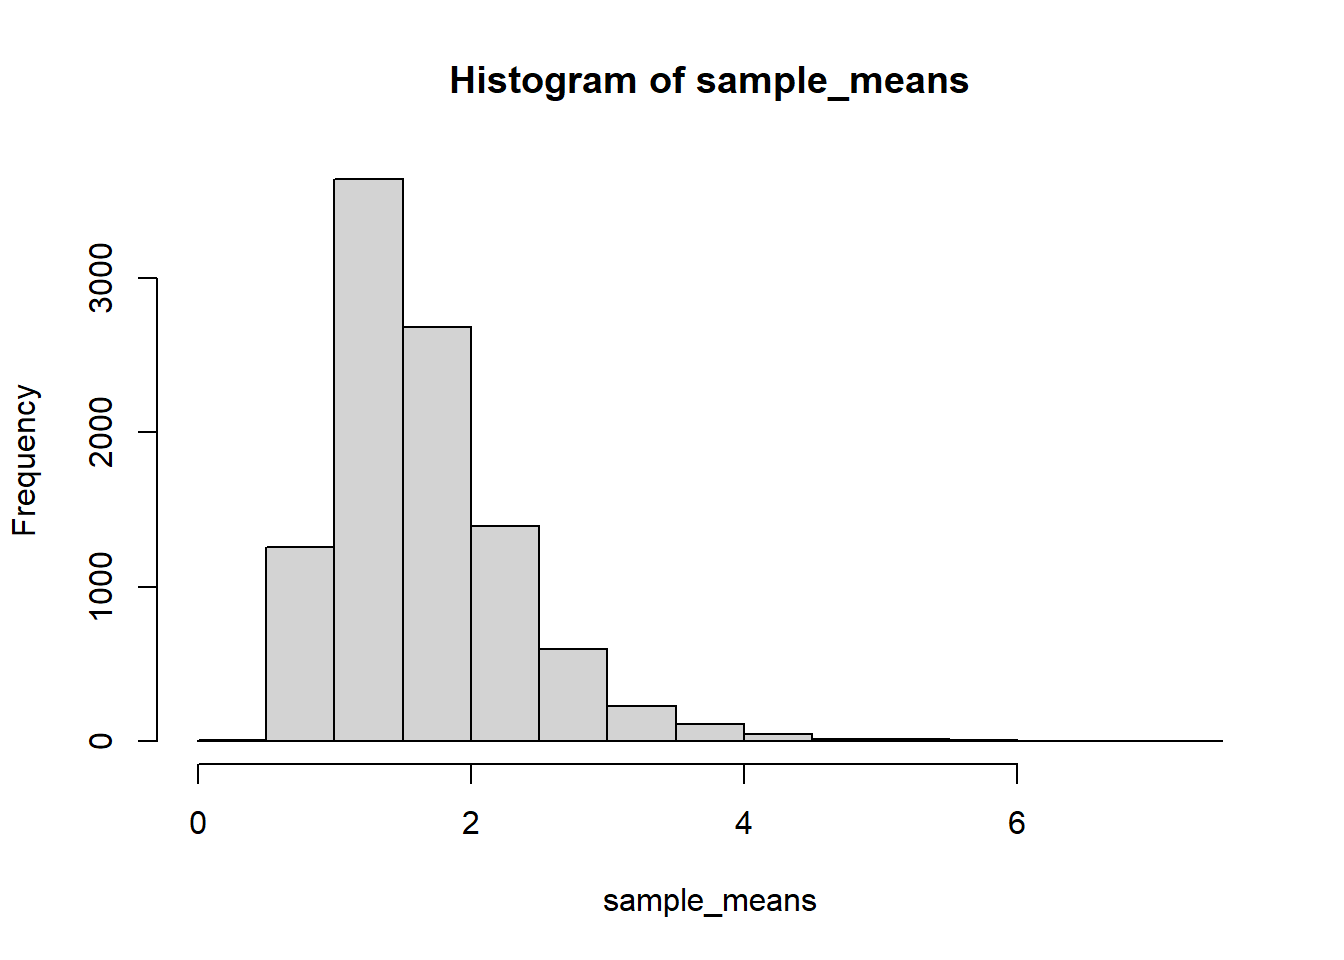
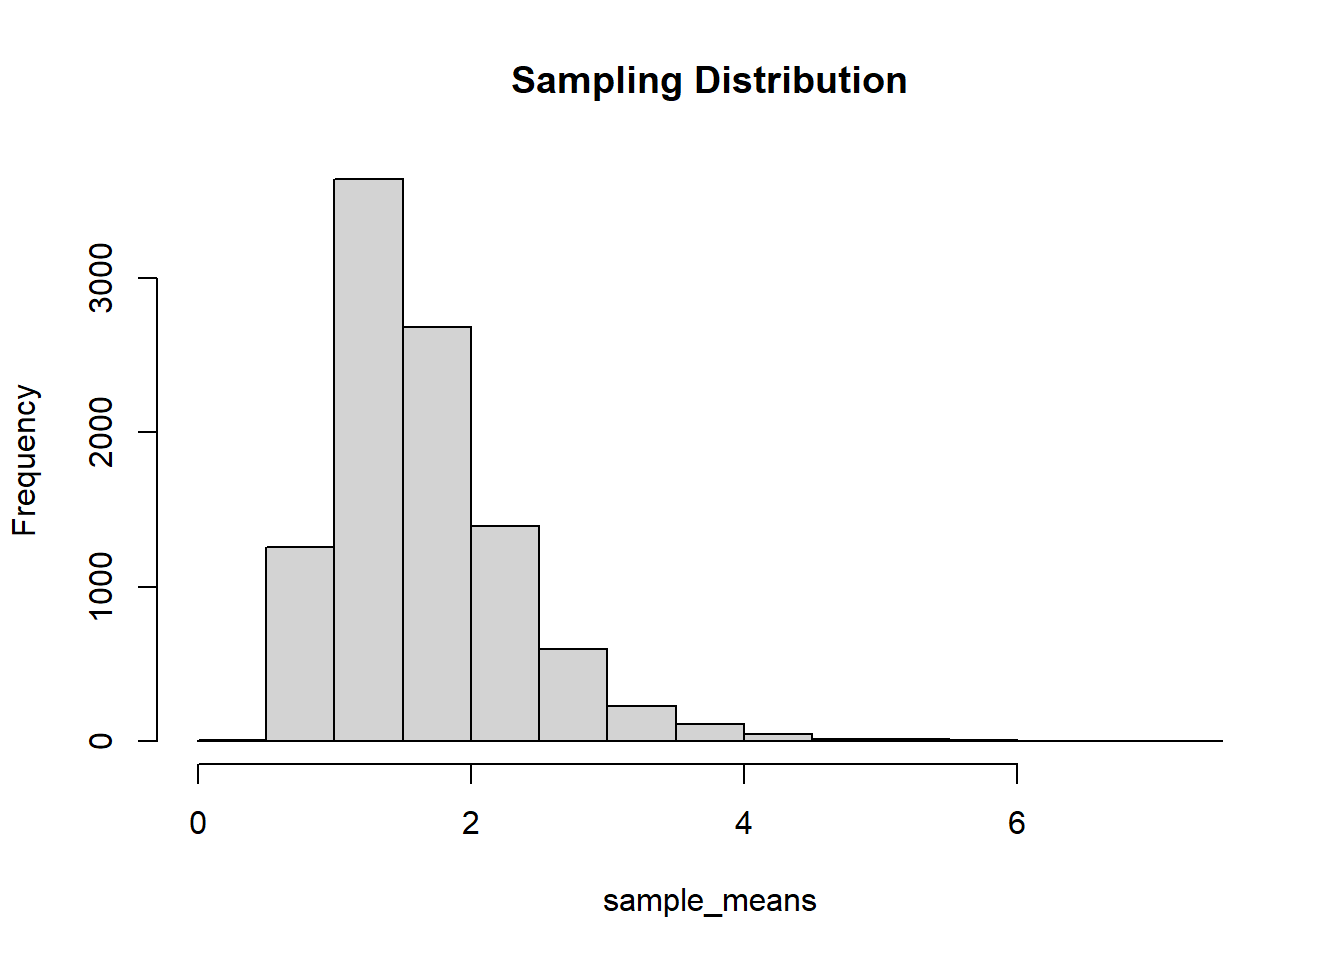
Minor updates to function
Will eventually swap to ggplots

Changed region(s): [[0.3125, 0.0625, 0.7188, 0.125]]

diff --git a/Simulation Analysis.html b/Simulation Analysis.html
@@ -107,26 +107,25 @@ pre > code.sourceCode > span > a:first-child::before { text-decoration: underlin
 <h2 class="anchored" data-anchor-id="set-up">Set Up</h2>
 <div class="cell">
 <div class="sourceCode cell-code" id="cb1"><pre class="sourceCode r code-with-copy"><code class="sourceCode r"><span id="cb1-1"><a href="#cb1-1" aria-hidden="true" tabindex="-1"></a><span class="fu">library</span>(ggplot2)</span>
-<span id="cb1-2"><a href="#cb1-2" aria-hidden="true" tabindex="-1"></a><span class="fu">library</span>(moments)</span>
-<span id="cb1-3"><a href="#cb1-3" aria-hidden="true" tabindex="-1"></a><span class="fu">set.seed</span>(<span class="dv">2626</span>)</span>
-<span id="cb1-4"><a href="#cb1-4" aria-hidden="true" tabindex="-1"></a><span class="co"># </span><span class="al">TODO</span><span class="co">: change back to 100k5</span></span>
-<span id="cb1-5"><a href="#cb1-5" aria-hidden="true" tabindex="-1"></a>r <span class="ot">&lt;-</span> <span class="dv">10000</span> <span class="co"># number of repetitions</span></span>
-<span id="cb1-6"><a href="#cb1-6" aria-hidden="true" tabindex="-1"></a><span class="co"># sample_sizes &lt;- c(5, 10, 20, 30, 40, 100, 200, 300, 400, 2000, 3000, 4000)</span></span>
-<span id="cb1-7"><a href="#cb1-7" aria-hidden="true" tabindex="-1"></a>sample_sizes <span class="ot">&lt;-</span> <span class="fu">c</span>(<span class="dv">5</span>, <span class="dv">10</span>, <span class="dv">20</span>)</span></code><button title="Copy to Clipboard" class="code-copy-button"><i class="bi"></i></button></pre></div>
+<span id="cb1-2"><a href="#cb1-2" aria-hidden="true" tabindex="-1"></a><span class="fu">set.seed</span>(<span class="dv">2626</span>)</span>
+<span id="cb1-3"><a href="#cb1-3" aria-hidden="true" tabindex="-1"></a><span class="co"># </span><span class="al">TODO</span><span class="co">: change back to 100k</span></span>
+<span id="cb1-4"><a href="#cb1-4" aria-hidden="true" tabindex="-1"></a>r <span class="ot">&lt;-</span> <span class="dv">10000</span> <span class="co"># number of repetitions</span></span>
+<span id="cb1-5"><a href="#cb1-5" aria-hidden="true" tabindex="-1"></a><span class="co"># sample_sizes &lt;- c(5, 10, 20, 30, 40, 100, 200, 300, 400, 1000, 2000, 3000, 4000)</span></span>
+<span id="cb1-6"><a href="#cb1-6" aria-hidden="true" tabindex="-1"></a>sample_sizes <span class="ot">&lt;-</span> <span class="fu">c</span>(<span class="dv">5</span>, <span class="dv">10</span>, <span class="dv">20</span>)</span></code><button title="Copy to Clipboard" class="code-copy-button"><i class="bi"></i></button></pre></div>
 </div>
 <p>We are opting to create 100,000 samples (repetitions) to create the sampling distribution so as to mitigate any concerns of random variability influencing our conclusions.</p>
 <div class="cell">
 <div class="sourceCode cell-code" id="cb2"><pre class="sourceCode r code-with-copy"><code class="sourceCode r"><span id="cb2-1"><a href="#cb2-1" aria-hidden="true" tabindex="-1"></a>analysis <span class="ot">&lt;-</span> <span class="cf">function</span>(f, distro, n, ...) {</span>
-<span id="cb2-2"><a href="#cb2-2" aria-hidden="true" tabindex="-1"></a>  <span class="fu">hist</span>(<span class="fu">distro</span>(n))</span>
+<span id="cb2-2"><a href="#cb2-2" aria-hidden="true" tabindex="-1"></a>  <span class="fu">hist</span>(<span class="fu">distro</span>(n), <span class="at">main =</span> <span class="fu">paste</span>(<span class="st">"Example Sample Distribution, n = "</span>,n))</span>
 <span id="cb2-3"><a href="#cb2-3" aria-hidden="true" tabindex="-1"></a>  sample_means <span class="ot">&lt;-</span> <span class="fu">replicate</span>(r, <span class="fu">f</span>(<span class="fu">distro</span>(n, ...)))</span>
-<span id="cb2-4"><a href="#cb2-4" aria-hidden="true" tabindex="-1"></a>  <span class="fu">hist</span>(sample_means)</span>
+<span id="cb2-4"><a href="#cb2-4" aria-hidden="true" tabindex="-1"></a>  <span class="fu">hist</span>(sample_means, <span class="at">main =</span> <span class="st">"Sampling Distribution"</span>)</span>
 <span id="cb2-5"><a href="#cb2-5" aria-hidden="true" tabindex="-1"></a>  <span class="fu">qqnorm</span>(sample_means)</span>
 <span id="cb2-6"><a href="#cb2-6" aria-hidden="true" tabindex="-1"></a>  <span class="fu">qqline</span>(sample_means)</span>
 <span id="cb2-7"><a href="#cb2-7" aria-hidden="true" tabindex="-1"></a></span>
-<span id="cb2-8"><a href="#cb2-8" aria-hidden="true" tabindex="-1"></a>  <span class="fu">skewness</span>(sample_means)</span>
+<span id="cb2-8"><a href="#cb2-8" aria-hidden="true" tabindex="-1"></a>  moments<span class="sc">::</span><span class="fu">skewness</span>(sample_means)</span>
 <span id="cb2-9"><a href="#cb2-9" aria-hidden="true" tabindex="-1"></a>}</span>
 <span id="cb2-10"><a href="#cb2-10" aria-hidden="true" tabindex="-1"></a></span>
-<span id="cb2-11"><a href="#cb2-11" aria-hidden="true" tabindex="-1"></a><span class="fu">lapply</span>(sample_sizes, analysis, <span class="at">distro =</span> rlnorm, <span class="at">f =</span> mean, <span class="at">mu =</span> <span class="dv">0</span>, <span class="at">sigma =</span> <span class="dv">1</span>)</span></code><button title="Copy to Clipboard" class="code-copy-button"><i class="bi"></i></button></pre></div>
+<span id="cb2-11"><a href="#cb2-11" aria-hidden="true" tabindex="-1"></a><span class="fu">unlist</span>(<span class="fu">lapply</span>(sample_sizes, analysis, <span class="at">f =</span> mean, <span class="at">distro =</span> rlnorm, <span class="at">mu =</span> <span class="dv">0</span>, <span class="at">sigma =</span> <span class="dv">1</span>))</span></code><button title="Copy to Clipboard" class="code-copy-button"><i class="bi"></i></button></pre></div>
 <div class="cell-output-display">
 <div>
 <figure class="figure">
@@ -191,16 +190,9 @@ pre > code.sourceCode > span > a:first-child::before { text-decoration: underlin
 </div>
 </div>
 <div class="cell-output cell-output-stdout">
-<pre><code>[[1]]
-[1] 2.885709
-
-[[2]]
-[1] 1.676432
-
-[[3]]
-[1] 1.254247</code></pre>
+<pre><code>[1] 2.885709 1.676432 1.254247</code></pre>
 </div>
-<div class="sourceCode cell-code" id="cb4"><pre class="sourceCode r code-with-copy"><code class="sourceCode r"><span id="cb4-1"><a href="#cb4-1" aria-hidden="true" tabindex="-1"></a><span class="fu">lapply</span>(sample_sizes, analysis, <span class="at">distro =</span> rlnorm, <span class="at">f =</span> mean, <span class="at">mu =</span> <span class="dv">0</span>, <span class="at">sigma =</span> <span class="fl">0.5</span>)</span></code><button title="Copy to Clipboard" class="code-copy-button"><i class="bi"></i></button></pre></div>
+<div class="sourceCode cell-code" id="cb4"><pre class="sourceCode r code-with-copy"><code class="sourceCode r"><span id="cb4-1"><a href="#cb4-1" aria-hidden="true" tabindex="-1"></a><span class="fu">unlist</span>(<span class="fu">lapply</span>(sample_sizes, analysis, <span class="at">f =</span> mean, <span class="at">distro =</span> rlnorm, <span class="at">mu =</span> <span class="dv">0</span>, <span class="at">sigma =</span> <span class="fl">0.5</span>))</span></code><button title="Copy to Clipboard" class="code-copy-button"><i class="bi"></i></button></pre></div>
 <div class="cell-output-display">
 <div>
 <figure class="figure">
@@ -265,24 +257,75 @@ pre > code.sourceCode > span > a:first-child::before { text-decoration: underlin
 </div>
 </div>
 <div class="cell-output cell-output-stdout">
-<pre><code>[[1]]
-[1] 2.239968
-
-[[2]]
-[1] 1.572076
-
-[[3]]
-[1] 1.196062</code></pre>
+<pre><code>[1] 2.239968 1.572076 1.196062</code></pre>
+</div>
+<div class="sourceCode cell-code" id="cb6"><pre class="sourceCode r code-with-copy"><code class="sourceCode r"><span id="cb6-1"><a href="#cb6-1" aria-hidden="true" tabindex="-1"></a><span class="fu">unlist</span>(<span class="fu">lapply</span>(sample_sizes, analysis, <span class="at">distro =</span> rnorm, <span class="at">f =</span> mean))</span></code><button title="Copy to Clipboard" class="code-copy-button"><i class="bi"></i></button></pre></div>
+<div class="cell-output-display">
+<div>
+<figure class="figure">
+<p><img src="Simulation-Analysis_files/figure-html/unnamed-chunk-2-19.png" class="img-fluid figure-img" width="672"></p>
+</figure>
 </div>
 </div>
-<div class="cell">
-<div class="sourceCode cell-code" id="cb6"><pre class="sourceCode r code-with-copy"><code class="sourceCode r"><span id="cb6-1"><a href="#cb6-1" aria-hidden="true" tabindex="-1"></a><span class="co"># for (n in sample_sizes) {</span></span>
-<span id="cb6-2"><a href="#cb6-2" aria-hidden="true" tabindex="-1"></a><span class="co">#   sample_means &lt;- replicate(r, mean(rlnorm(n)))</span></span>
-<span id="cb6-3"><a href="#cb6-3" aria-hidden="true" tabindex="-1"></a><span class="co">#   skewness(sample_means)</span></span>
-<span id="cb6-4"><a href="#cb6-4" aria-hidden="true" tabindex="-1"></a><span class="co">#   hist(sample_means)</span></span>
-<span id="cb6-5"><a href="#cb6-5" aria-hidden="true" tabindex="-1"></a><span class="co">#   qqnorm(sample_means)</span></span>
-<span id="cb6-6"><a href="#cb6-6" aria-hidden="true" tabindex="-1"></a><span class="co">#   qqline(sample_means)</span></span>
-<span id="cb6-7"><a href="#cb6-7" aria-hidden="true" tabindex="-1"></a><span class="co"># }</span></span></code><button title="Copy to Clipboard" class="code-copy-button"><i class="bi"></i></button></pre></div>
+<div class="cell-output-display">
+<div>
+<figure class="figure">
+<p><img src="Simulation-Analysis_files/figure-html/unnamed-chunk-2-20.png" class="img-fluid figure-img" width="672"></p>
+</figure>
+</div>
+</div>
+<div class="cell-output-display">
+<div>
+<figure class="figure">
+<p><img src="Simulation-Analysis_files/figure-html/unnamed-chunk-2-21.png" class="img-fluid figure-img" width="672"></p>
+</figure>
+</div>
+</div>
+<div class="cell-output-display">
+<div>
+<figure class="figure">
+<p><img src="Simulation-Analysis_files/figure-html/unnamed-chunk-2-22.png" class="img-fluid figure-img" width="672"></p>
+</figure>
+</div>
+</div>
+<div class="cell-output-display">
+<div>
+<figure class="figure">
+<p><img src="Simulation-Analysis_files/figure-html/unnamed-chunk-2-23.png" class="img-fluid figure-img" width="672"></p>
+</figure>
+</div>
+</div>
+<div class="cell-output-display">
+<div>
+<figure class="figure">
+<p><img src="Simulation-Analysis_files/figure-html/unnamed-chunk-2-24.png" class="img-fluid figure-img" width="672"></p>
+</figure>
+</div>
+</div>
+<div class="cell-output-display">
+<div>
+<figure class="figure">
+<p><img src="Simulation-Analysis_files/figure-html/unnamed-chunk-2-25.png" class="img-fluid figure-img" width="672"></p>
+</figure>
+</div>
+</div>
+<div class="cell-output-display">
+<div>
+<figure class="figure">
+<p><img src="Simulation-Analysis_files/figure-html/unnamed-chunk-2-26.png" class="img-fluid figure-img" width="672"></p>
+</figure>
+</div>
+</div>
+<div class="cell-output-display">
+<div>
+<figure class="figure">
+<p><img src="Simulation-Analysis_files/figure-html/unnamed-chunk-2-27.png" class="img-fluid figure-img" width="672"></p>
+</figure>
+</div>
+</div>
+<div class="cell-output cell-output-stdout">
+<pre><code>[1] -0.009613092  0.001899458  0.007607136</code></pre>
+</div>
 </div>
 <p>Distributions:</p>
 <ul>
